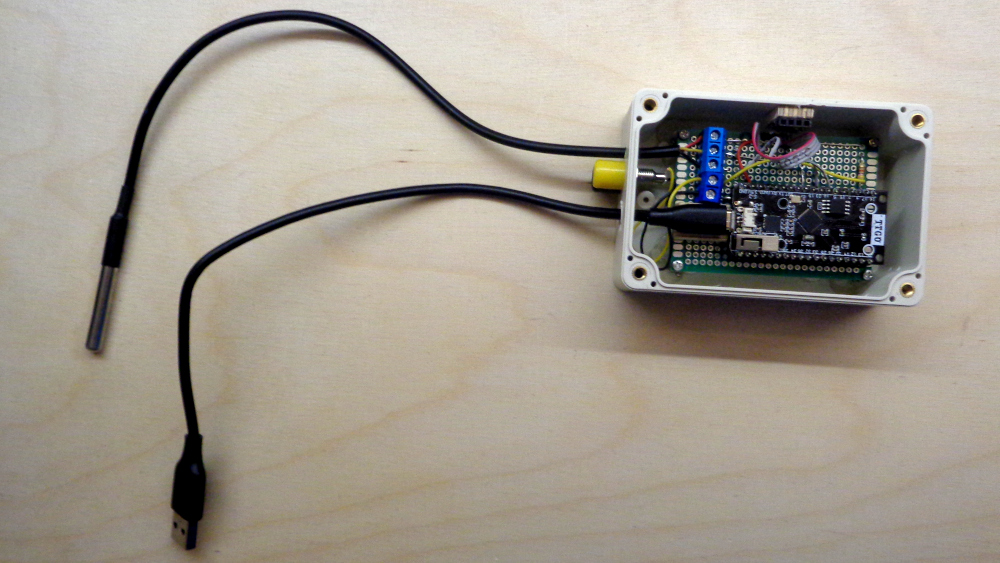
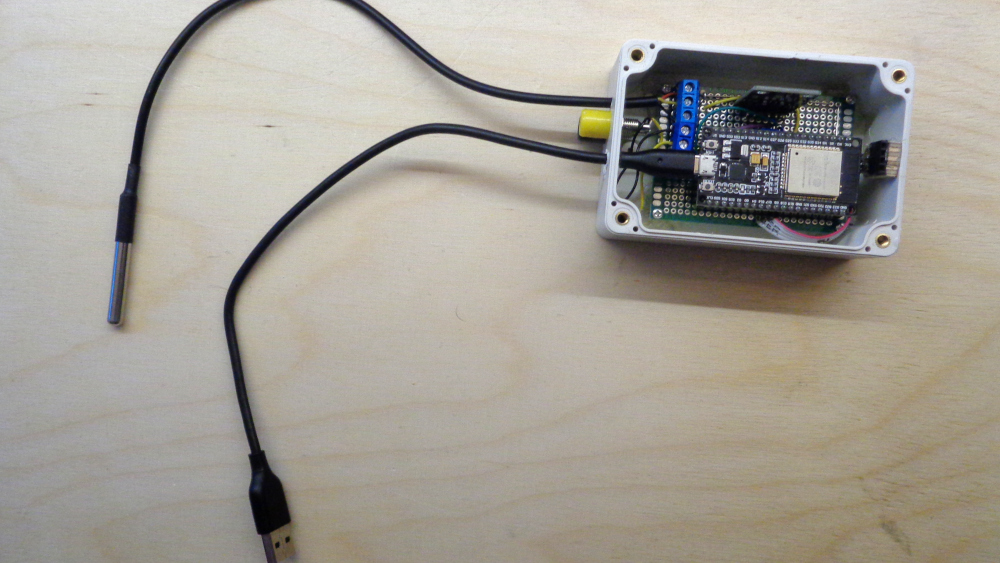
Code und Beschreibung um Luftdrucksensor erweitert.

diff --git a/README.md b/README.md
@@ -1,6 +1,6 @@
 # Wetterstation
 
-Für Geo habe ich eine Wetterstation gebastelt. Diese misst Temperatur und Windgeschwindigkeit, zeigt die Werte auf einem Display an und überträgt sie auch zu ThingSpeak.
+Für Geo habe ich eine Wetterstation gebastelt. Diese misst Temperatur, Windgeschwindigkeit und Luftdruck, zeigt die Werte auf einem Display an und überträgt sie auch zu ThingSpeak.
 
 ![Box der Wetterstation in Betrieb](doc/Box_in_Betrieb.jpg)
 
@@ -8,16 +8,17 @@ Für Geo habe ich eine Wetterstation gebastelt. Diese misst Temperatur und Windg
 
 Folgende Komponenten wurden verwendet:
 
-* Mikrocontroller: ESP32 (hier ein TTGO LoRa32 SX1276 OLED Board mit defektem Display)
+* Mikrocontroller: ESP32 NodeMCU
 * Display: 1,3 Zoll OLED 128×64 mit SH1106 Chip
 * Temperatursensor: DS18B20 (wasserdicht)
 * Neigungssensor: SW-520D (hier als Reedkontakt verwendet)
+* Luftdrucksensor: BMP280
 
-Auf dem folgenden Foto sieht man den Temperatursensor, den USB-Anschluss und wie es unter dem Display aussieht. An der Seite sind zwei Buchsen, an die das Windrad (siehe unten) angeschlossen wird.
+Auf dem folgenden Foto sieht man den Temperatursensor, den USB-Anschluss, die kleine senkrechte Platine mit dem Luftdrucksensor und wie es unter dem Display aussieht. An der Seite sind zwei Buchsen, an die das Windrad (siehe unten) angeschlossen wird.
 
 ![Platine der Wetterstation](doc/Box_offen.jpg)
 
-Hier auch eine Zeichnung der Schaltung:
+Hier auch eine Zeichnung der Schaltung (hier noch ohne Luftdrucksensor):
 
 ![Schaltung](doc/Schaltung.png)
 
